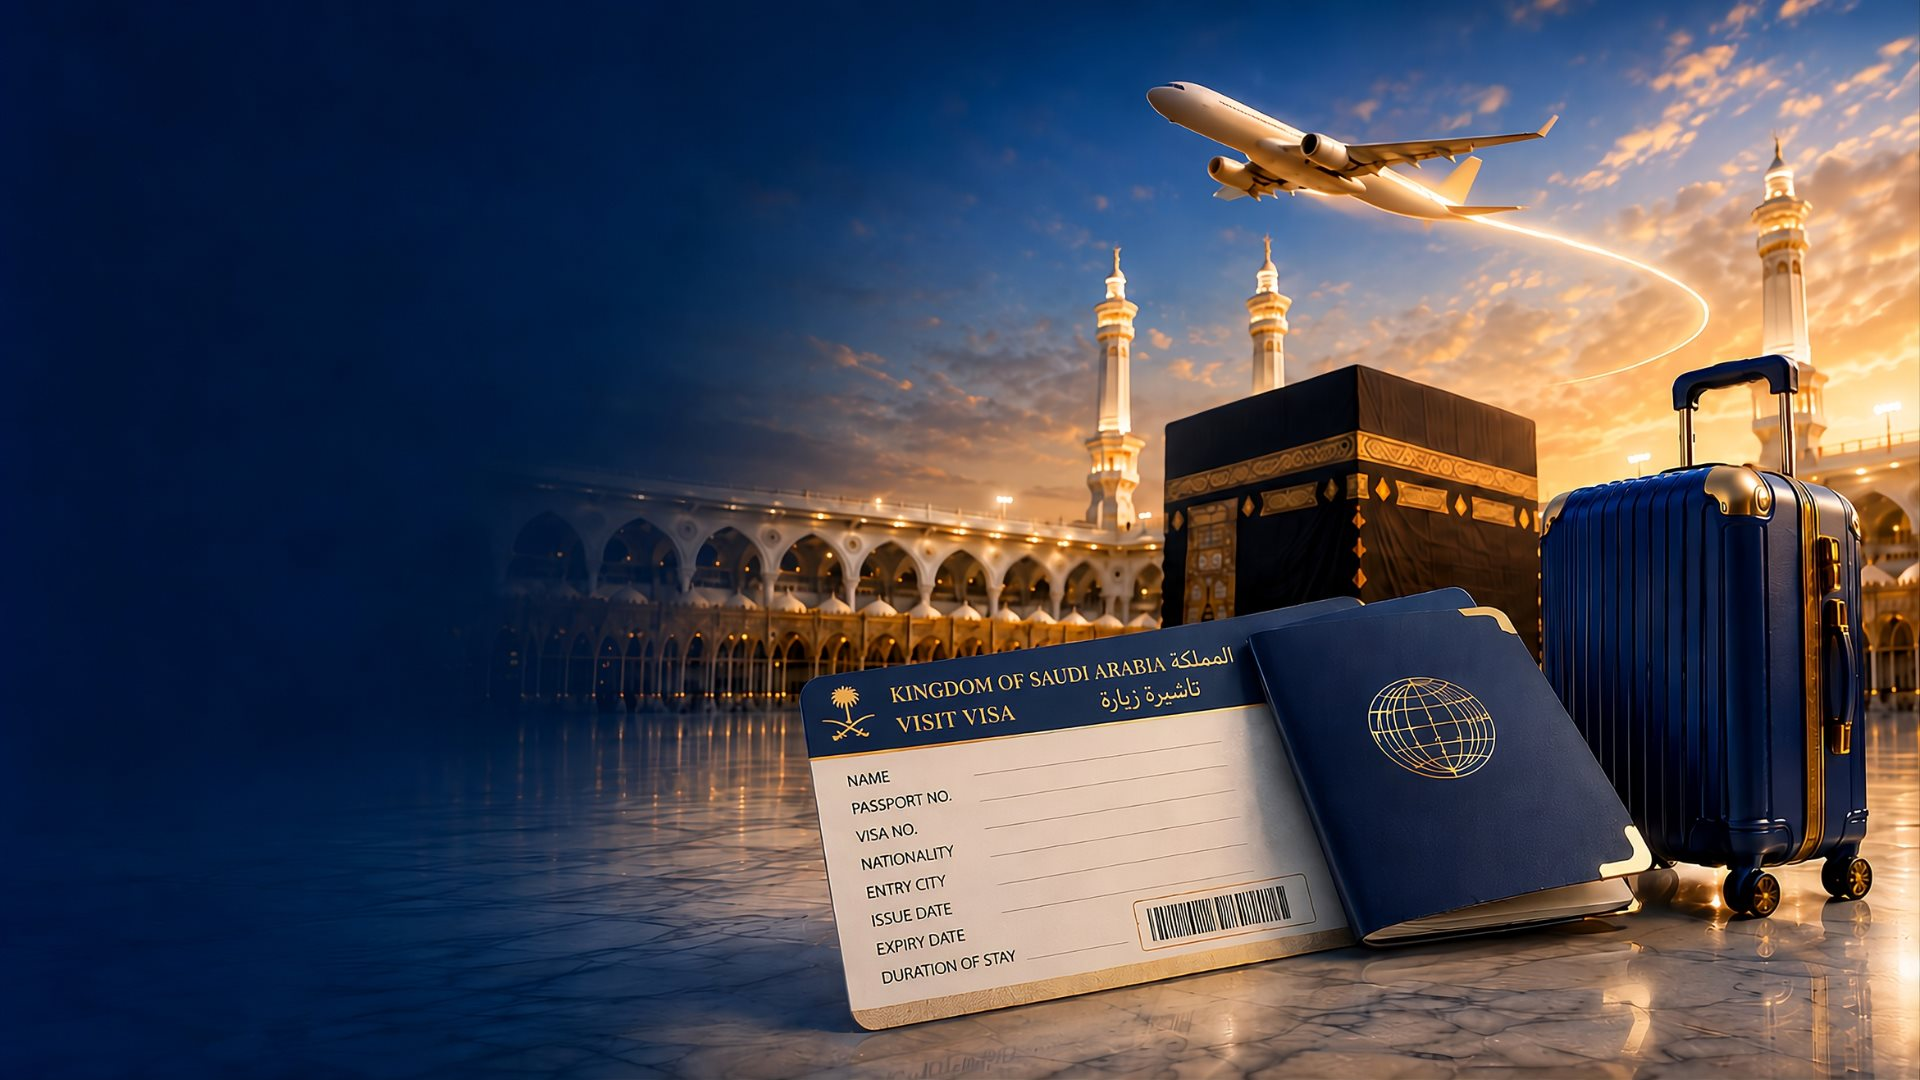
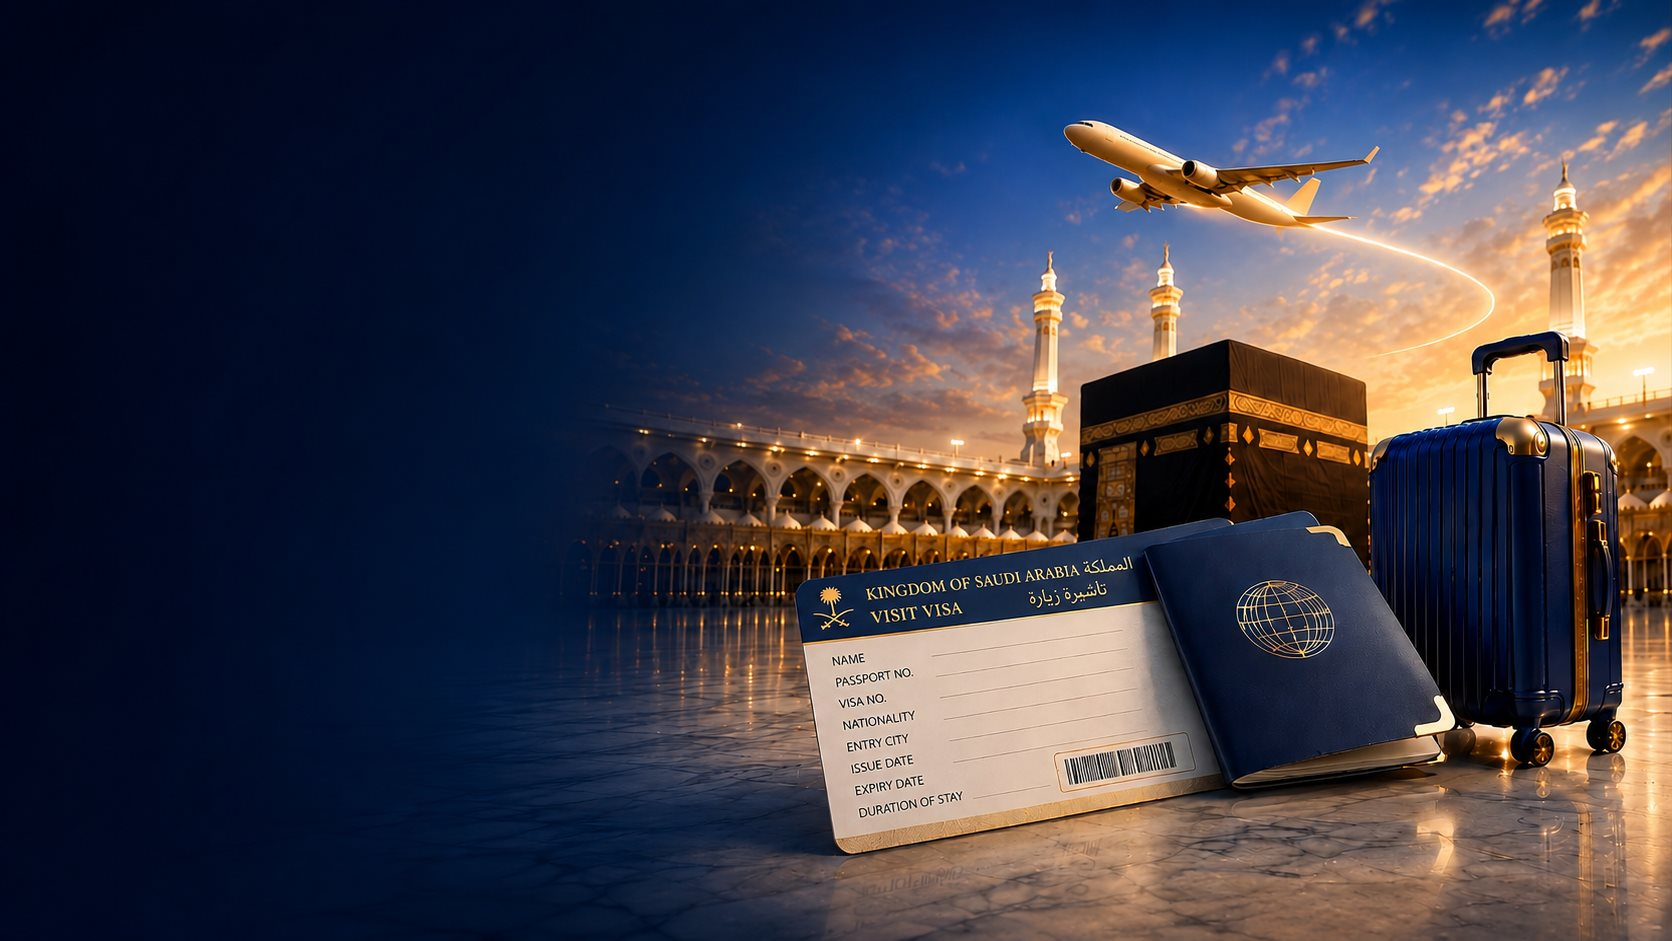
Wire in the reframed hero image with proper safe-zone composition
Compressed the reframed image (1.8MB PNG, 1672x941) to a ~178KB JPEG,
overwriting hero.jpg in place. This version keeps all subjects (plane,
Kaaba, visa/passport, suitcase) within a safe margin from the edges
and has a calm dark-navy zone on the left for text, so it now fits
the fixed-height hero box with no cropping of the plane like before.
Updated the loading-state fallback color to match.

diff --git a/resources/js/pages/home/hero-section.tsx b/resources/js/pages/home/hero-section.tsx
@@ -18,7 +18,7 @@ export default function HeroSection() {
     }, []);
 
     return (
-        <section ref={scope} className="relative flex h-[calc(100dvh-64px)] w-full items-center overflow-hidden bg-[#00123b]">
+        <section ref={scope} className="relative flex h-[calc(100dvh-64px)] w-full items-center overflow-hidden bg-[#00051b]">
             <img src="/images/hero.jpg" alt="" className="absolute inset-0 h-full w-full object-cover" />
 
             <div className="relative mx-auto w-full max-w-7xl px-4 py-16 sm:px-6 lg:px-8">
